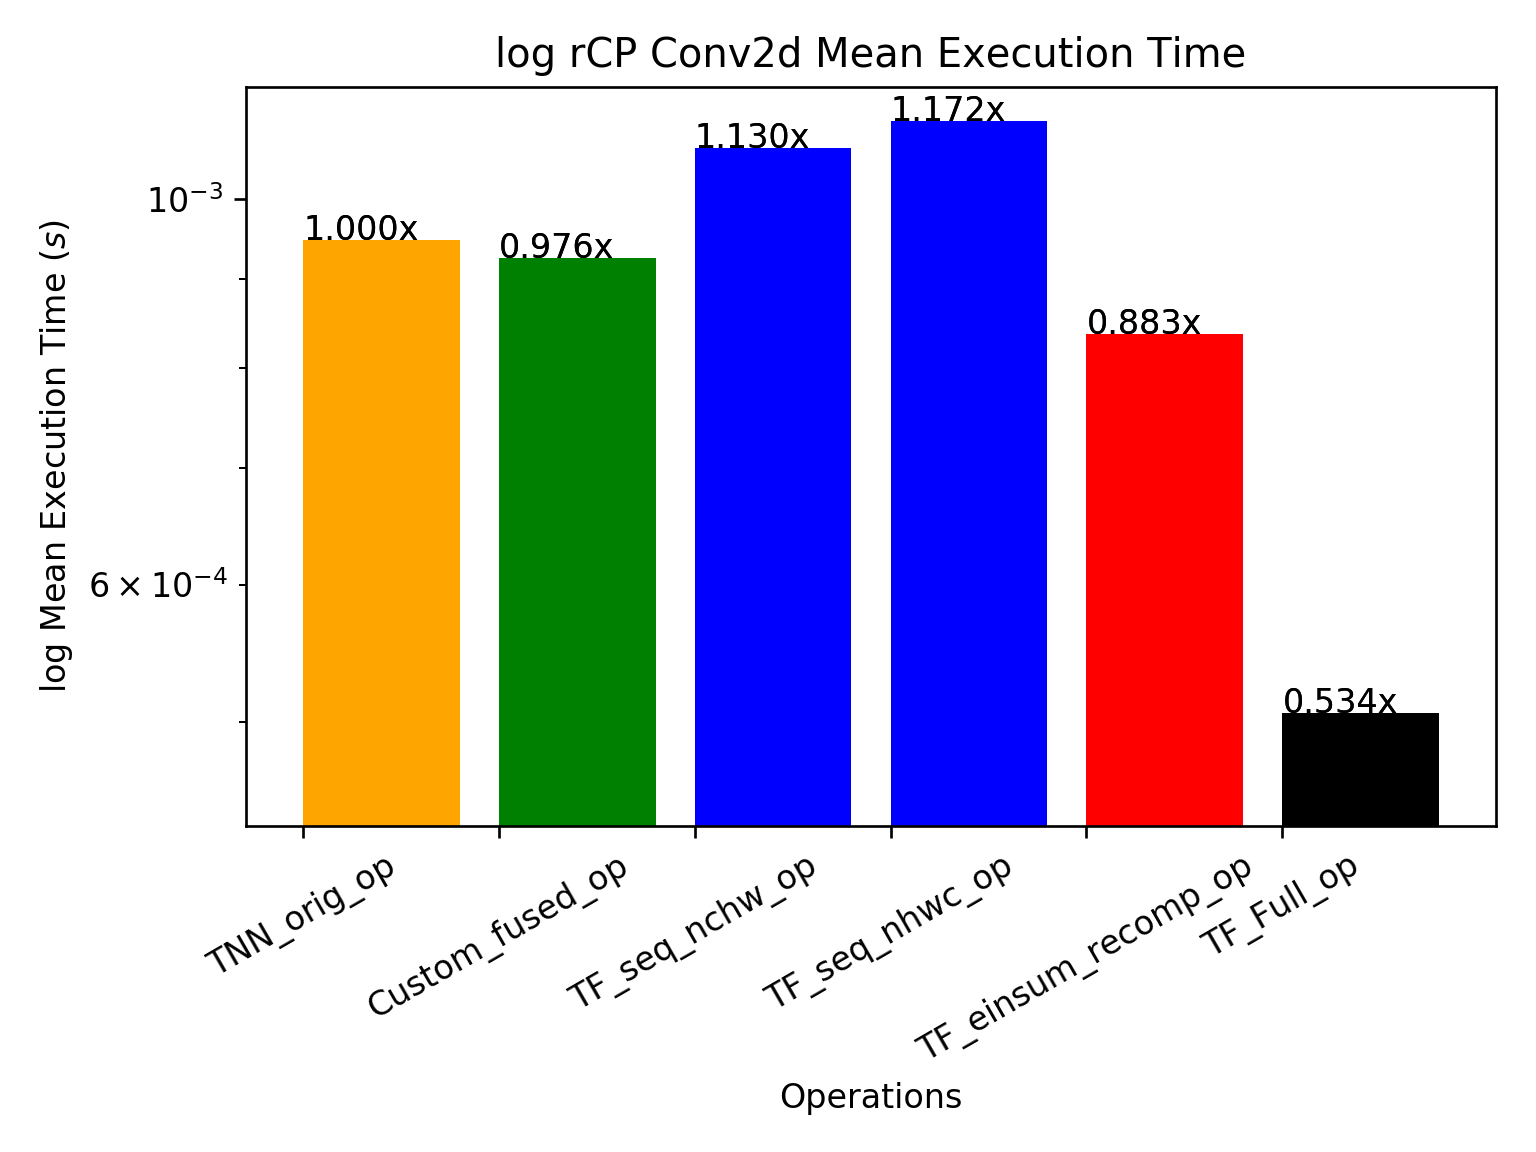
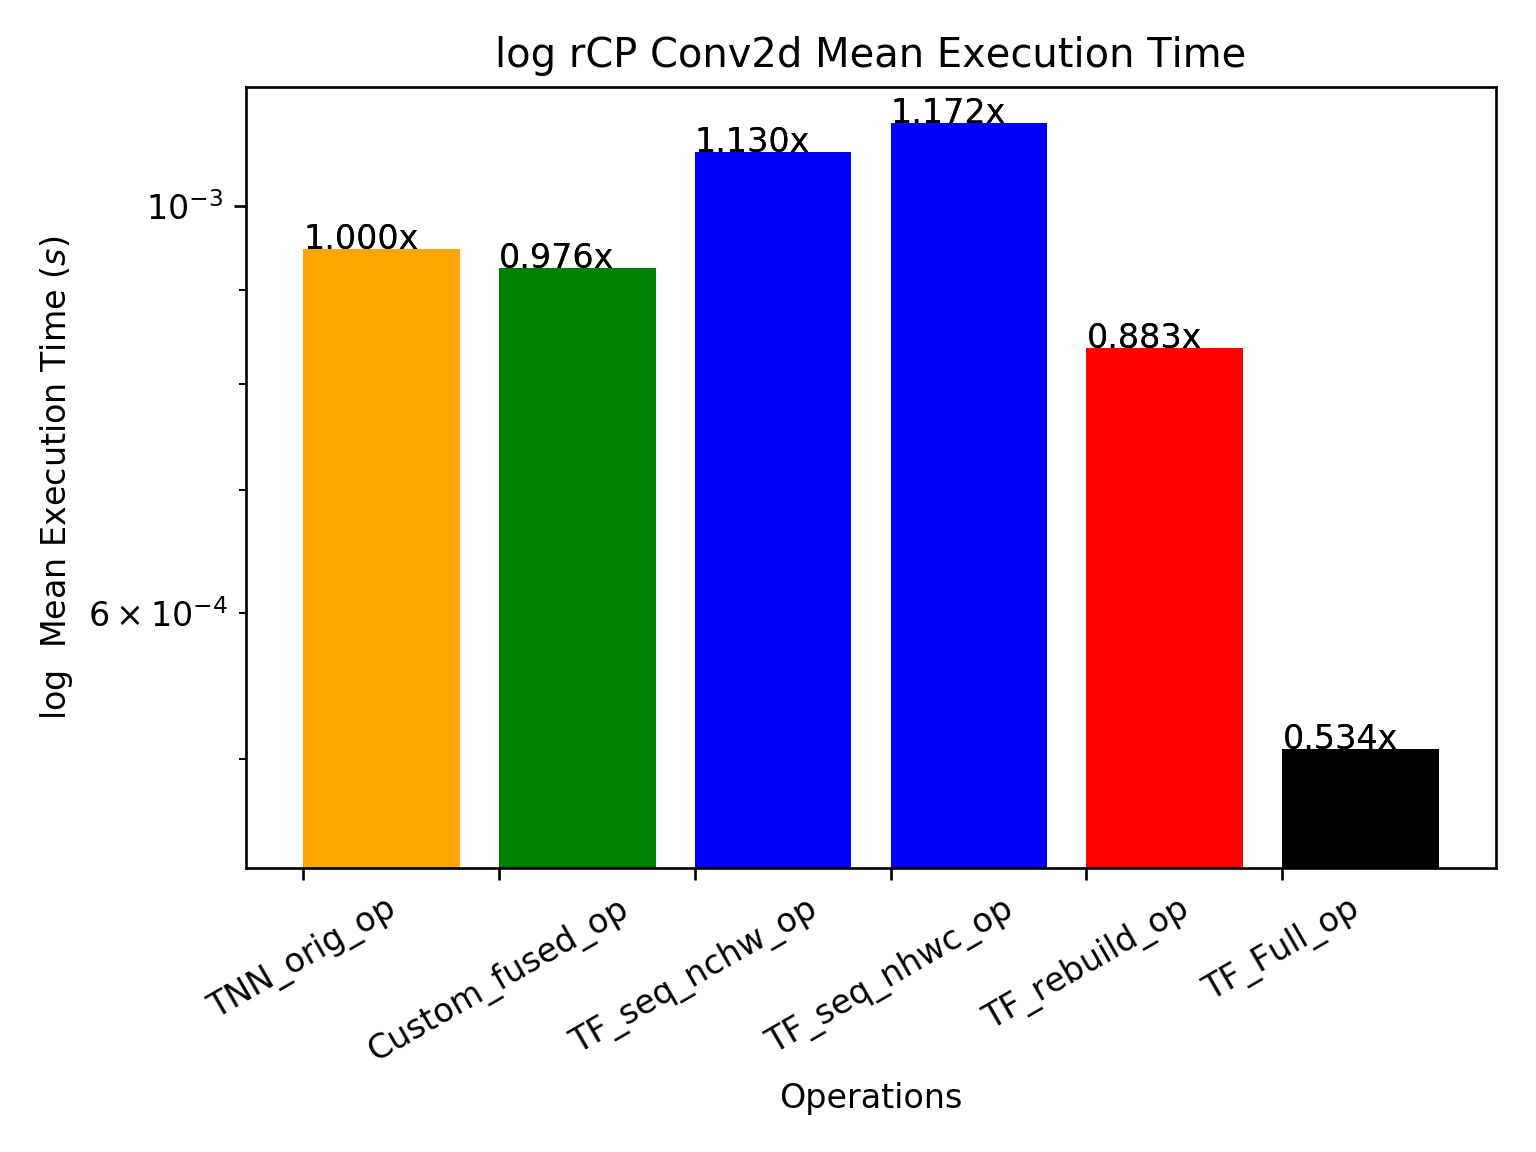
Include instructions and update plots

diff --git a/results/generate_plots.py b/results/generate_plots.py
@@ -48,7 +48,7 @@ rcp_times = {
         "Custom_fused_op"   : (0.0009247064590454102, 'green' ),
         "TF_seq_nchw_op"    : (0.001069784164428711, 'blue' ),
         "TF_seq_nhwc_op"    : (0.0011096996688842773, 'blue'),
-        "TF_einsum_recomp_op" : (0.000836491584777832, 'red' ),
+        "TF_rebuild_op" : (0.000836491584777832, 'red' ),
         "TF_Full_op"      : (0.0005061626434326172, 'black'),
     }
 
@@ -57,7 +57,7 @@ rcp_memory = {
         "Custom_fused_op"   : (132876.0, 'green' ),
         "TF_seq_nchw_op"    : (1442188.0,'blue' ),
         "TF_seq_nhwc_op"    : (1442188.0, 'blue'),
-        "TF_einsum_recomp_op" : (176128.0, 'red' ),
+        "TF_rebuild_op" : (176128.0, 'red' ),
         "TF_Full_op"      : (140288.0, 'black'),
     }
 
@@ -92,14 +92,14 @@ for n, name in enumerate(names):
 
             pnm = 'Mean Execution Time' if i==0 else 'Memory Used'
             if to_log == 1:
-                lgname = 'log'
+                lgname = 'log '
                 plt.yscale("log")
                 unit = r'($s$)' if i==0 else '(B)'
             else:
                 unit = r'($\mu s$)' if i==0 else '(MB)'
                 ax.yaxis.set_major_formatter(formats[i])
 
-            title = lgname+' '+name+' '+pnm
+            title = lgname + name+' '+pnm
             plt.title(title)
             plt.ylabel(lgname + ' ' + pnm + ' ' + unit)
             plt.xlabel('Operations')

diff --git a/README.md b/README.md
@@ -1,36 +1,59 @@
 # ParallelTNNLayers
 Parallel implementations of decomposed tensorial neural network layers
 
+## Instructions to reproduce results
+
+Tests and Benchmarks require Tensorflow, Python 3.x and a GPU capable of running Tensorflow along with CUDA and CUDNN libraries installed.
+
+To build Custom Fused operations:
+
+`cd Kernels && make && cd ..`
+
+To run tests and benchmarks:
+
+`cd test && bash run_all.sh && cd ..`
+
+To generate plots on past data:
+
+`cd results && python generate_plots.py`
+
+## Custom Fused Kernels
+
+Cuda kernels and tensorflow C++ wrappers needed to register custom operations
+can be found in the `Kernels` directory.
+
+## Sequencer
+
 In the \sequences, you will find an updated version of netcon which can handle generalized tensor operations.
 The formatting for bond names is very sensitive, please read below:
 
         **FORMATTING**
-        The bond/leg lists require sensitive formatting. Please read below. 
-        
-        -Leg names must be of type string. Use *lower-case* letter-number combinations, 
+        The bond/leg lists require sensitive formatting. Please read below.
+
+        -Leg names must be of type string. Use *lower-case* letter-number combinations,
         EXCEPT in the case of convolution and partial outer product (see below):
-        
+
         -Bond legs should be in the same order as the dimensions listed by tf.get_shape()
-        
+
         -For outer product, just use different leg names.
         Example: [i0,j,k] & [k,l,m1] have no common indices, so an outer product is performed.
-        
+
         -For convolution, append * to the end of leg name, use same leg name, but with different casing.
         We assume here that convolution between i & j pads the new leg to dimension length of max(i,j).
         USE LOWER CASE FOR THE LEG WITH HIGHER DIMENSION.
-        
-        Example: [a,b*,c] & [d,B*,e] will convolve between the b*/B* indices. 
+
+        Example: [a,b*,c] & [d,B*,e] will convolve between the b*/B* indices.
         Please note that this assumes the convolution for a particular leg is only between two tensors.
         I.e., [a,b*,c] & [d,B*,e] & [f, b*, h] is NOT valid.
-       
+
        -For partial outer product, append + to end of leg names, with upper and lower casing.
         Example: [n,p+,q] & [r,P+,s] will perform a partial outer product between p+/P+ indices.
-       
+
        -For contraction, just leave the leg names the same.
-        Example" [i0,j3,k] & [i0,l2,m] will contract between the i indices. 
-        
+        Example" [i0,j3,k] & [i0,l2,m] will contract between the i indices.
+
         Example of a tensor network with multiple tensor operations.
-        
+
         Here, we are contracting on bonds j between A & B, convolving on bonds j&J between A & C
         and taking a partial outer product on bond k between C & D.
         We would express the bonds as follows:
@@ -38,14 +61,14 @@ The formatting for bond names is very sensitive, please read below:
         B_bonds = [j,l,m]
         C_bonds = [Q*, k+]
         D_bonds = [n, K+, p]
-           
+
             q   Q
           A---^---C
-          |       | 
+          |       |
         j |       = k
           |       |
           B       D
-         / \     / \ 
+         / \     / \
         l   m   n   p
-        
+
 
